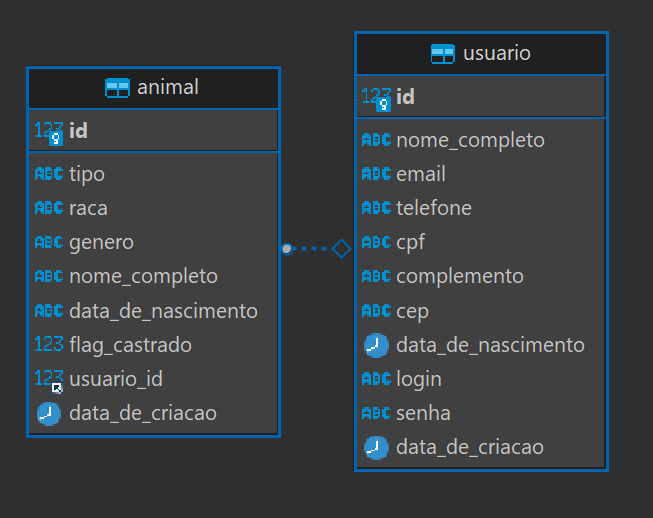
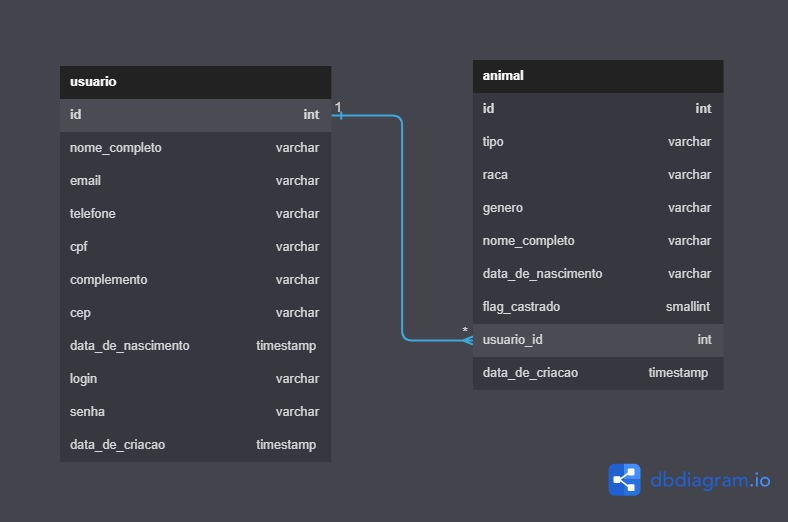
adicionando implementacoes finais de arquitetura

diff --git a/docs/05-Arquitetura da Solução.md b/docs/05-Arquitetura da Solução.md
@@ -20,13 +20,15 @@ O Modelo ER representa através de um diagrama como as entidades (coisas, objeto
 
 Ferramenta para geração deste artefato: Draw.io.
 
-> - ![Modelo ER](./img/modelo_er_adote_animal.png)
+> - ![Modelo ER](./img/Modelo_ER_adote_animal.png)  
 
 ## Esquema Relacional
 
 O Esquema Relacional corresponde à representação dos dados em tabelas juntamente com as restrições de integridade e chave primária.
  
 A Imagem abaixo foi retirada diretamente do banco implementado.
+
+Ferramenta para geração deste artefato: lucid.
 
 > - ![Esquema Relacional](./img/esquema_relacional_adote_animal.png)
 
@@ -46,20 +48,9 @@ Modelo Fisico : DBeaver
 
 ## Hospedagem
 
-Explique como a hospedagem e o lançamento da plataforma foi feita.
-
-> **Links Úteis**:
->
-> - [Website com GitHub Pages](https://pages.github.com/)
-> - [Programação colaborativa com Repl.it](https://repl.it/)
-> - [Getting Started with Heroku](https://devcenter.heroku.com/start)
-> - [Publicando Seu Site No Heroku](http://pythonclub.com.br/publicando-seu-hello-world-no-heroku.html)
+Website e app mobile : Netlify e geração de apk  
+Banco de Dados e Back-End : Heroku 
 
 ## Qualidade de Software
 
-Conceituar qualidade de fato é uma tarefa complexa, mas ela pode ser vista como um método gerencial que através de procedimentos disseminados por toda a organização, busca garantir um produto final que satisfaça às expectativas dos stakeholders.
 
-No contexto de desenvolvimento de software, qualidade pode ser entendida como um conjunto de características a serem satisfeitas, de modo que o produto de software atenda às necessidades de seus usuários. Entretanto, tal nível de satisfação nem sempre é alcançado de forma espontânea, devendo ser continuamente construído. Assim, a qualidade do produto depende fortemente do seu respectivo processo de desenvolvimento.
-
-A norma internacional ISO/IEC 25010, que é uma atualização da ISO/IEC 9126, define oito características e 30 subcaracterísticas de qualidade para produtos de software.
-Com base nessas características e nas respectivas sub-características, identifique as sub-características que sua equipe utilizará como base para nortear o desenvolvimento do projeto de software considerando-se alguns aspectos simples de qualidade. Justifique as subcaracterísticas escolhidas pelo time e elenque as métricas que permitirão a equipe avaliar os objetos de interesse.
